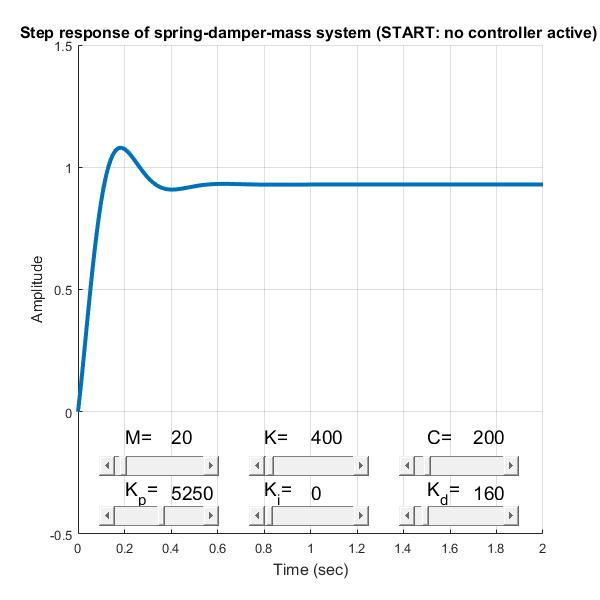
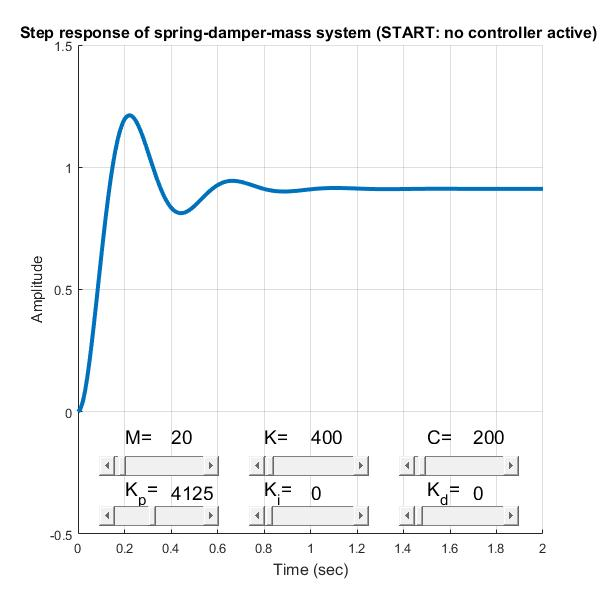
Stability 1-d

diff --git a/PID_intro.m b/PID_intro.m
@@ -11,15 +11,15 @@ clc
 clear all
 
 %% mass, spring and damper values and transfer function
-M = 423.23;                     % mass in kg
+M = 395;                     % mass in kg
 K = 20000;                    % spring stiffness coeficient in N/m
 C = 3800;                    % damping coefficient in Ns/m    
 s = tf('s');                % LaPlace parameter
 t = 0:0.01:2;
 %% plot the step response of the different controllers (P,PD,PI and PID)
-KP = 37500;
-KI = 175000;
-KD = 5000;
+KP = 10000;
+KI = 10000;
+KD = 10000;
 figure(3)
 set(gcf,'Position',[100 100 600 600])
 grid on
@@ -31,19 +31,19 @@ ylabel('Amplitude')
 ylim([-0.5 1.5])
 % Slider erzeugen
 KP_Slider = uicontrol('Style', 'slider',...
-'Position', [100 75 120 20],'min',0,'max',1e6,'SliderStep',[0.05 0.1],...
+'Position', [100 75 120 20],'min',0,'max',1e5,'SliderStep',[0.05 0.1],...
 'value',KP,'String','Kp');
 text(0.2,-0.33,'K_{p}=','FontSize',14)
 KP_wert=text(0.4,-0.33,'test','FontSize',14);
 
 KI_Slider = uicontrol('Style', 'slider',...
-'Position', [250 75 120 20],'min',0,'max',1e6,'SliderStep',[0.05 0.1],...
+'Position', [250 75 120 20],'min',0,'max',2e6,'SliderStep',[0.05 0.1],...
 'value',KI,'String','Ki');
 text(0.8,-0.33,'K_{i}=','FontSize',14)
 KI_wert=text(1.0,-0.33,num2str(KI),'FontSize',14);
 
 KD_Slider = uicontrol('Style', 'slider',...
-'Position', [400 75 120 20],'min',0,'max',2e5,'SliderStep',[0.05 0.1],...
+'Position', [400 75 120 20],'min',0,'max',1e6,'SliderStep',[0.05 0.1],...
 'value',KD,'String','Kd');
 text(1.5,-0.33,'K_{d}=','FontSize',14)
 KD_wert=text(1.7,-0.33,num2str(KD),'FontSize',14);

diff --git a/Stability.m b/Stability.m
@@ -1,0 +1,16 @@
+%% mass, spring and damper values and transfer function
+M = 395;                     % mass in kg
+K = 20000;                    % spring stiffness coeficient in N/m
+C = 3800;                    % damping coefficient in Ns/m    
+s = tf('s');                % LaPlace parameter
+%% plot the step response of the different controllers (P,PD,PI and PID)
+KP = 6250;
+KI = 66250;
+KD = 0;
+T = 1/(M*s^2+C*s+K);  
+%%%%%%%%%%%%%%%%%%%%%%%%%%%%%%%%%%%%%%%%%%%%%%%%%%%%%%%%%%%%%%%%%%%%%%%%%%%
+Ctrl = pid(KP,KI,KD);
+S = feedback(Ctrl*T,1);
+
+nyquist(T);
+pzmap(T);
